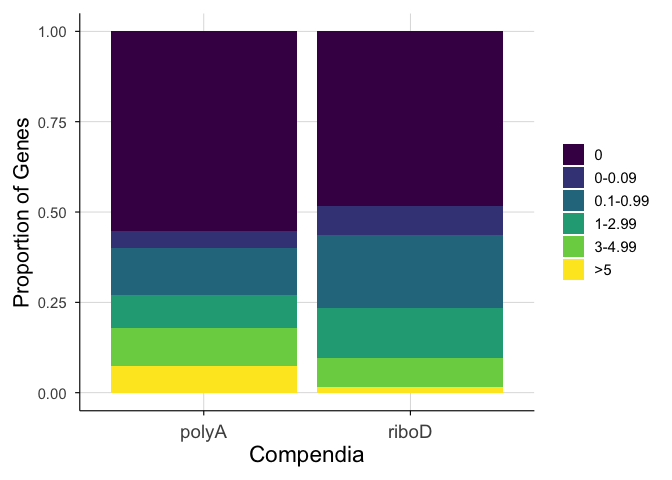
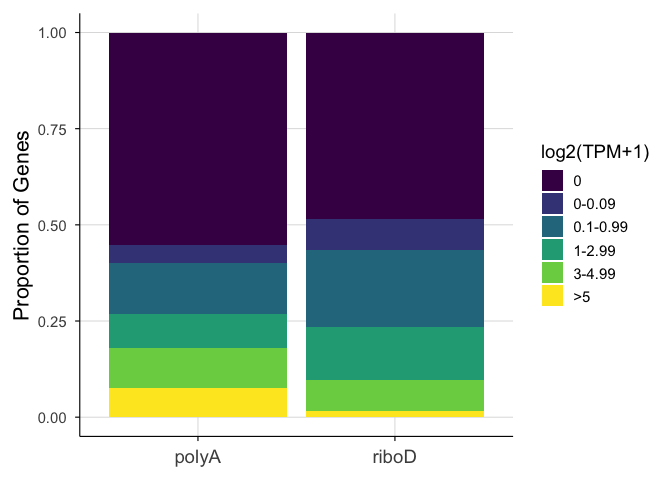
Fig1

Changed region(s): [[0.0625, 0.0312, 0.7812, 0.9688], [0.7812, 0.2812, 0.9688, 0.6562], [0.0, 0.2188, 0.1875, 0.6875]]

diff --git a/Fig_1/Fig1_all/Fig1_all.md b/Fig_1/Fig1_all/Fig1_all.md
@@ -106,7 +106,7 @@ theme_1C <- function(base_size = 14) {
   theme_minimal(base_size = base_size) +
     theme(
       legend.position = "right",
-      legend.title = element_blank(),
+      legend.title = NULL,
       panel.grid.major = element_line(color = "grey85", linewidth = 0.3),
       panel.grid.minor = element_blank(),
       axis.line = element_line(color = "black", linewidth = 0.4),
@@ -114,7 +114,7 @@ theme_1C <- function(base_size = 14) {
       strip.text = element_text(face = "bold", size = base_size * 0.9),
       plot.title = element_text(face = "bold", size = base_size * 1.1, hjust = 0.5),
       axis.title.y = element_text(angle = 90, hjust = 0.5, size = 16), 
-      axis.title.x = element_text(angle = 0, hjust = 0.5, size = 17), 
+      # axis.title.x = element_text(angle = 0, hjust = 0.5, size = 17), 
       axis.text.x = element_text(angle = 0, hjust = 0.5, size = 14),
       plot.margin = margin(10, 10, 10, 10)
     )
@@ -137,9 +137,9 @@ scale_color_compendia <- function() {
 ``` r
 Fig1C_SS <- ggplot(bin_prop_1C, aes(x = Compendia, y = Proportion, fill = ExprBin)) +
     geom_bar(stat = "identity", position = "stack") +
-    scale_fill_viridis_d(option = "D", name = "Expression \nin log2(TPM+1)") +
+    scale_fill_viridis_d(option = "D", name = "log2(TPM+1)") +
     labs(
-      # x = "Library Prep",
+      x = NULL,
       y = "Proportion of Genes",
       fill = "Expression Level"
     ) +
@@ -257,7 +257,7 @@ Fig1D_SS <- ggplot(combined_counts_1D, aes(x = Compendia, y = Count, fill = Comp
 #    coord_cartesian(ylim = c(0, y_star * 1.1)) +
     labs(
       x = "log2(TPM+1) = x",
-      y = "Number of Genes Expressed"
+      y = "Number of Unique Genes"
     ) +
     theme_minimal() +
     theme_1d() +
@@ -381,7 +381,7 @@ Fig1E_SS <- ggplot(combined_long, aes(x = Gene, y = Expression, fill = Compendia
     # facet_wrap(~ PlotType, ncol = 2, scales = "free_x") +
     labs(
       x = NULL,
-      y = "Expression log2(TPM+1)"
+      y = "log2(TPM+1)"
     ) +
     color_theme_1E() +
     theme(
@@ -399,7 +399,7 @@ Fig1E_SS <- ggplot(combined_long, aes(x = Gene, y = Expression, fill = Compendia
 Fig1E_SS
 ```
 
-![](Fig1_all_files/figure-commonmark/Fig1E_SS-1.png)
+![](Fig1_all_files/figure-commonmark/Fig1E-1.png)
 
 ### Fig1F
 
@@ -475,16 +475,15 @@ Fig1F_SS <- ggplot(ss_ratios, aes(x = Ratio)) +
   
   coord_cartesian(xlim = c(0, 10), ylim = c(0, 4000)) +
   labs(
-    title = "SS",
     x = "Median Expression Ratio",
-    y = "Number of Genes"
+    y = "Number of Unique Genes"
   ) +
   theme_Fig1F() +
       theme(
-      axis.title.y = element_text(size = 22),
-      axis.title.x = element_text(size = 22),
-      axis.text.y = element_text(size = 18),
-      axis.text.x = element_text(size = 18),
+      axis.title.y = element_text(size = 20),
+      axis.title.x = element_text(size = 20),
+      axis.text.y = element_text(size = 14),
+      axis.text.x = element_text(size = 14),
       strip.text = element_blank(),
       plot.title = element_text(vjust = -2)
     )
@@ -589,8 +588,8 @@ Fig1G_SS <- ggplot(combined_medians_hugo_res, aes(x = polyA_medians, y = riboD_m
                 linetype = "dashed", color = "gray50") +
 
     labs(
-      x = "Average PolyA Expression (log2(TPM+1))",
-      y = "Average RiboD Expression (log2(TPM+1))",
+      x = "RiboD median log2(TPM+1)",
+      y = "PolyA median log2(TPM+1)",
     ) +
     theme_minimal(base_size = 14) +
     plot_theme()
@@ -640,13 +639,14 @@ Fig1H_SS <- ggplot(combined_medians_drug, aes(x = Gene, y = Expression, color = 
     # 1. vertical lines for each gene 
     geom_vline(aes(xintercept = as.numeric(Gene)), color = "grey85", linewidth = 0.3) + 
     # 2. points that stay centered on those lines 
-    geom_point(size = 1.4, alpha = 0.75) +
+    geom_point(size = 1.6, alpha = 0.75) +
     scale_x_discrete(expand = expansion(mult = c(0.01, 0.01))) +
     scale_y_continuous(limits = c(0, 11), expand = expansion(mult = c(0, 0.05))) +
     scale_color_compendia() +
     labs(
-      x = "Treehouse Druggable Genes",
-      y = "Expression log2(TPM+1)",
+      # x = "Treehouse Druggable Genes",
+      x = NULL,
+      y = "Median log2(TPM+1)",
       color = "Library Prep"
     ) +
     theme(
@@ -658,7 +658,9 @@ Fig1H_SS <- ggplot(combined_medians_drug, aes(x = Gene, y = Expression, color = 
       axis.text.y = element_text(angle = 0, hjust = 1, size = 12),
       axis.title.y = element_text(angle = 90, hjust = 0.5, size = 15), 
       plot.title = element_text(hjust = 0.5, face = "bold", size = 20),
-      legend.position = "bottom"
+      legend.position = "bottom",
+      legend.text = element_text(size = 16),
+      legend.title = element_text(size = 18)
     )
 Fig1H_SS
 ```
@@ -669,8 +671,8 @@ Fig1H_SS
 
 ``` r
 Fig1_all <- plot_grid(
-  NULL,
-  NULL,
+  Fig1A,
+  Fig1B,
   Fig1C_SS,
   Fig1D_SS,
   Fig1E_SS,
@@ -680,9 +682,9 @@ Fig1_all <- plot_grid(
   ncol = 2,
   label_size = 20,
   labels = "AUTO", 
-  label_x = 0.09,     # Nudges slightly away from the absolute left border
-  # label_y = 0.95,     # Nudges slightly down from the absolute top border
-  hjust = 0,          # Locks alignment to the left edge of the text
+  label_x = c(0.09, 0.09, 0.12, 0.09, 0.11, 0.1, 0.1, 0.1),
+  label_y = c(1,    1,    1,    1,    1.05, 1.05, 1.1, 1.1),
+  hjust = 0,
   vjust = 1
 )
 ```
@@ -700,12 +702,6 @@ Fig1_all <- plot_grid(
 
     Warning: Removed 60497 rows containing missing values or values outside the scale range
     (`geom_text_repel()`).
-
-``` r
-Fig1_all
-```
-
-![](Fig1_all_files/figure-commonmark/Fig1_all-1.png)
 
 ``` r
 ggsave("../../Figures/Fig1_all.png", Fig1_all, width = 15, height = 15, dpi = 300)
